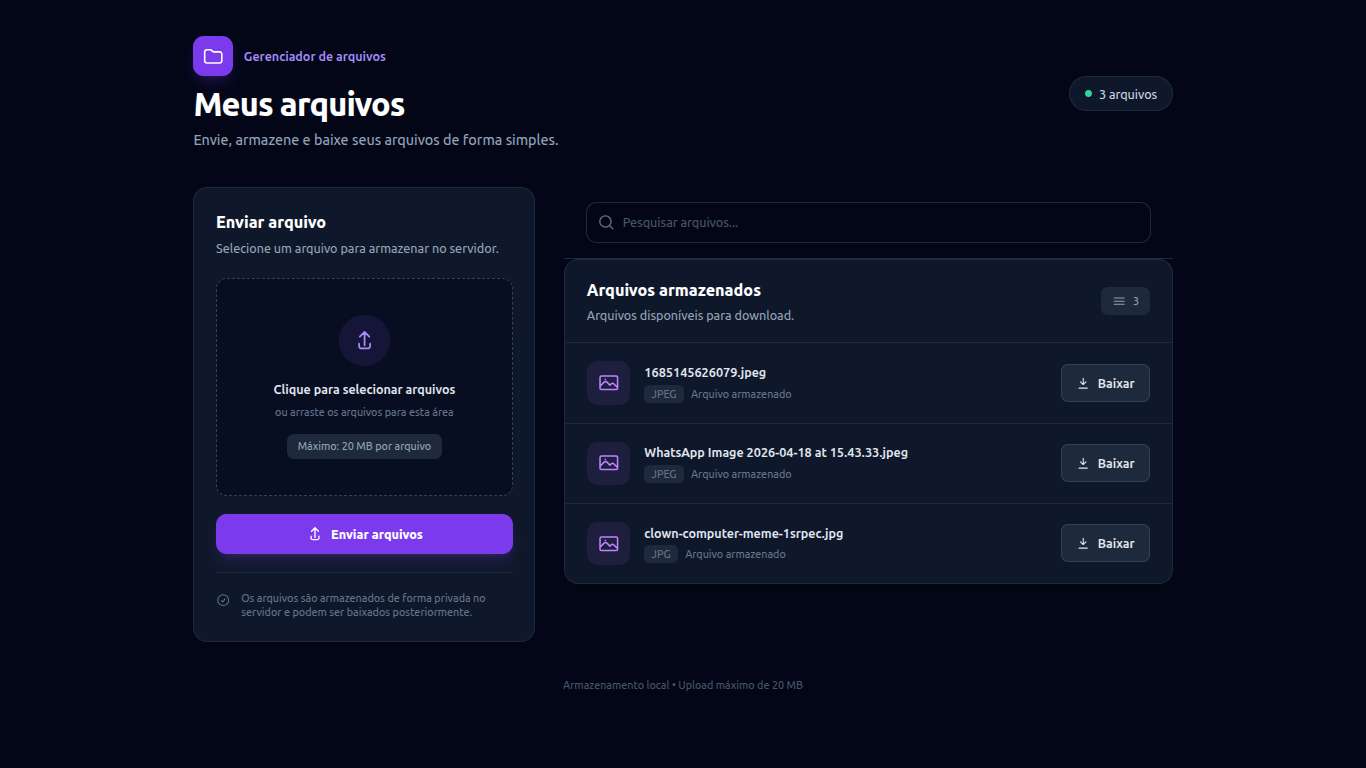
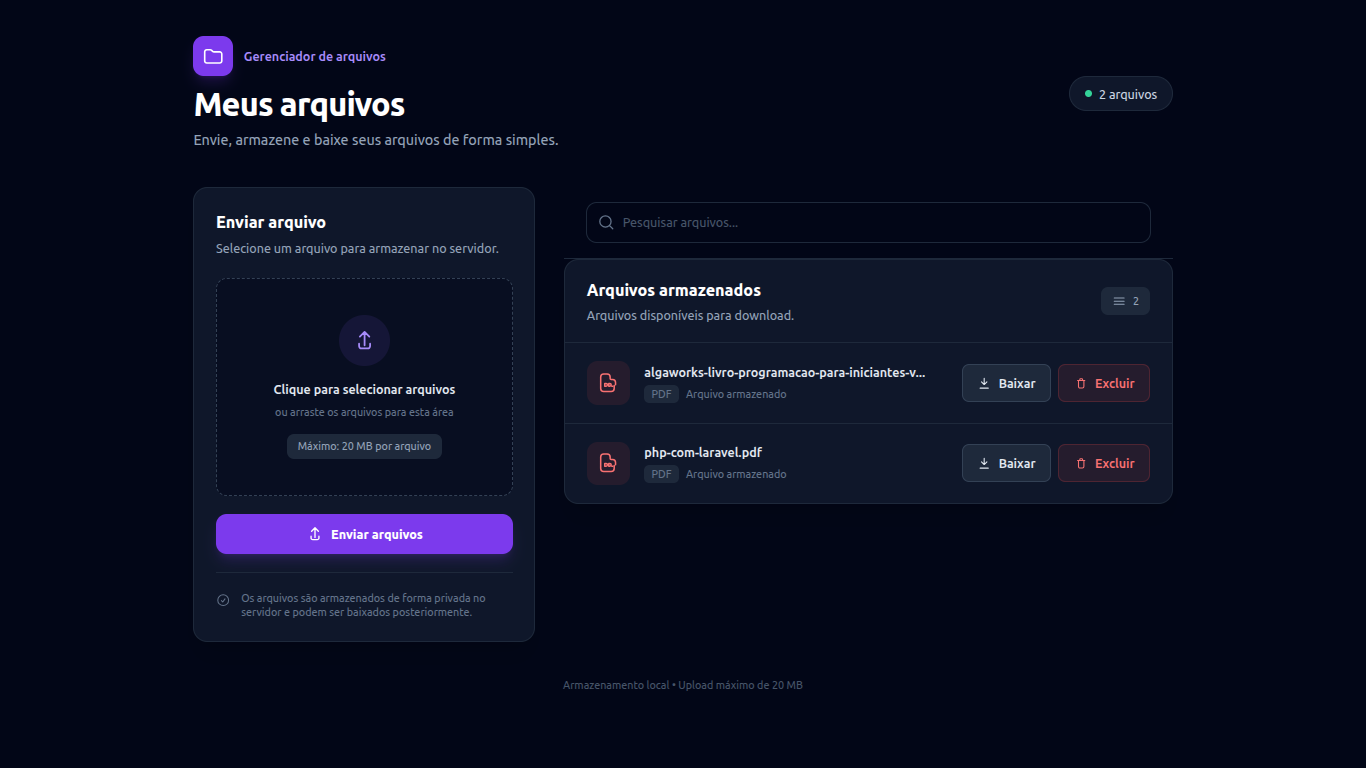
docs: Organização de requisitos e imagens do projeto

diff --git a/README.md b/README.md
@@ -1,6 +1,6 @@
 ## Projeto: Servidor de Arquivos
 
-<p>Aplicação web desenvolvida com Laravel para enviar, listar e baixar arquivos em uma interface simples e intuitiva. Funcionando como um servidor local em rede.</p>
+<p>Aplicação web desenvolvida com Laravel para enviar, listar, baixar e excluir arquivos em uma interface simples e intuitiva. Funcionando como um servidor local em rede.</p>
 
 ## Sobre o Projeto
 
@@ -18,6 +18,12 @@
 ### Barra para Pesquisar Arquivos
 ![Tela principal](docs/Pesquisar.png)
 
+### Baixar Arquivo
+![Tela principal](docs/Baixar.png)
+
+### Excluir Arquivo
+![Tela principal](docs/Excluir.png)
+
 ## Funcionalidades
 
 <ul>
@@ -25,6 +31,7 @@
     <li>Listagem de arquivos enviados</li>
     <li>Pesquisa de arquivos pelo nome</li>
     <li>Download de arquivos</li>
+    <li>Exclusão de arquivos</li>
     <li>Validação do tamanho do arquivo</li>
 </ul>
 
